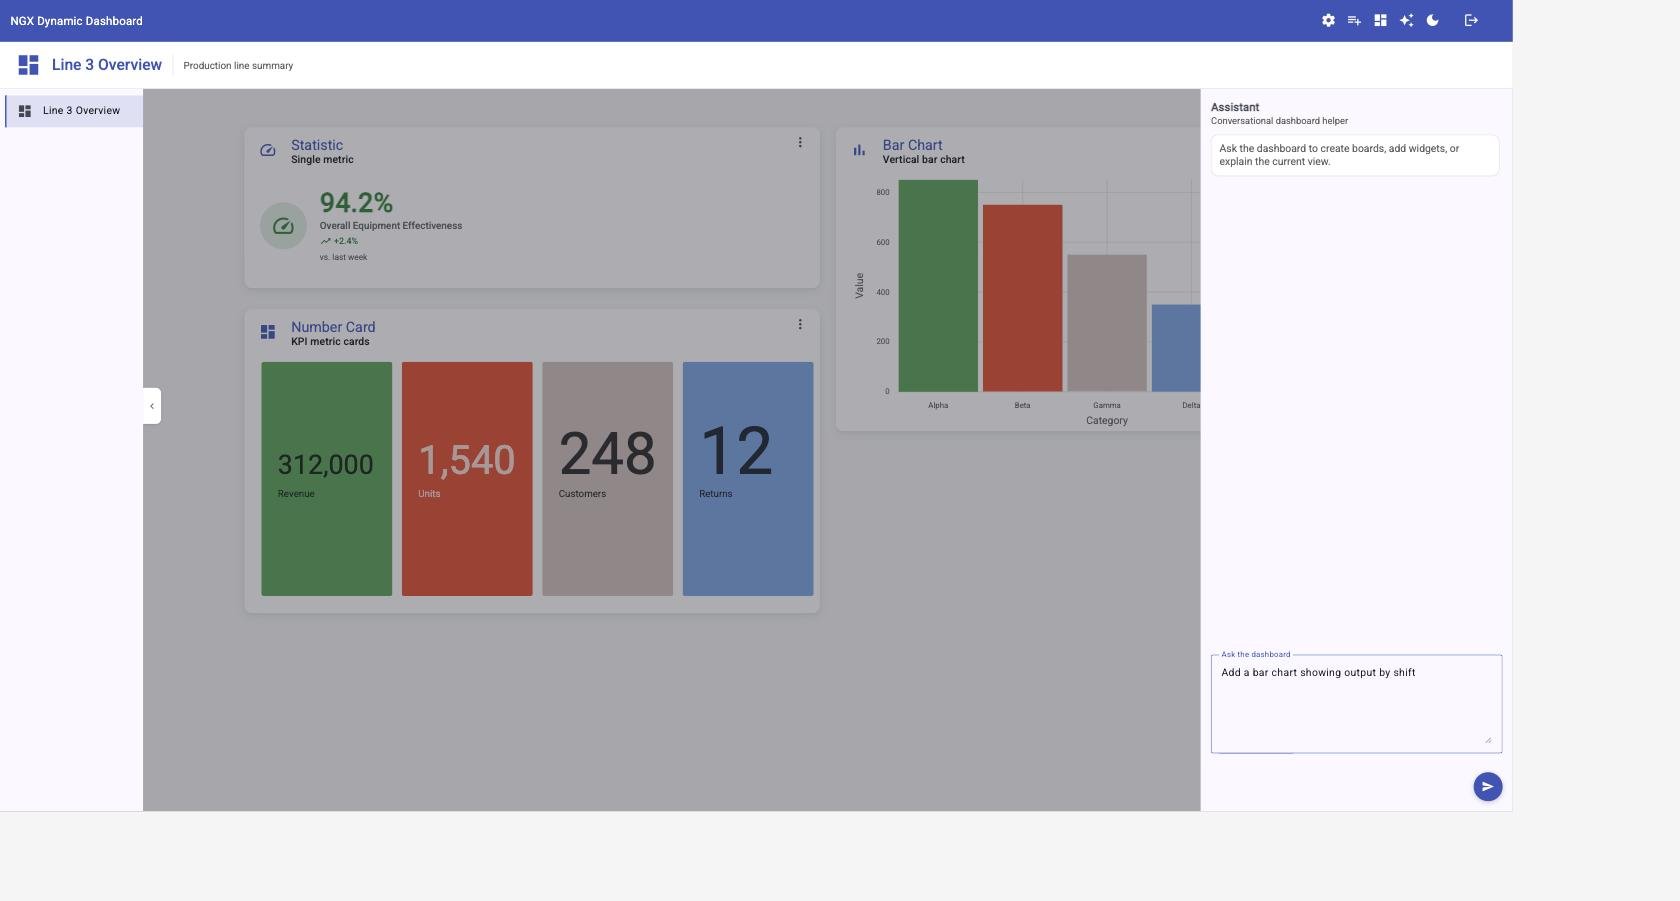
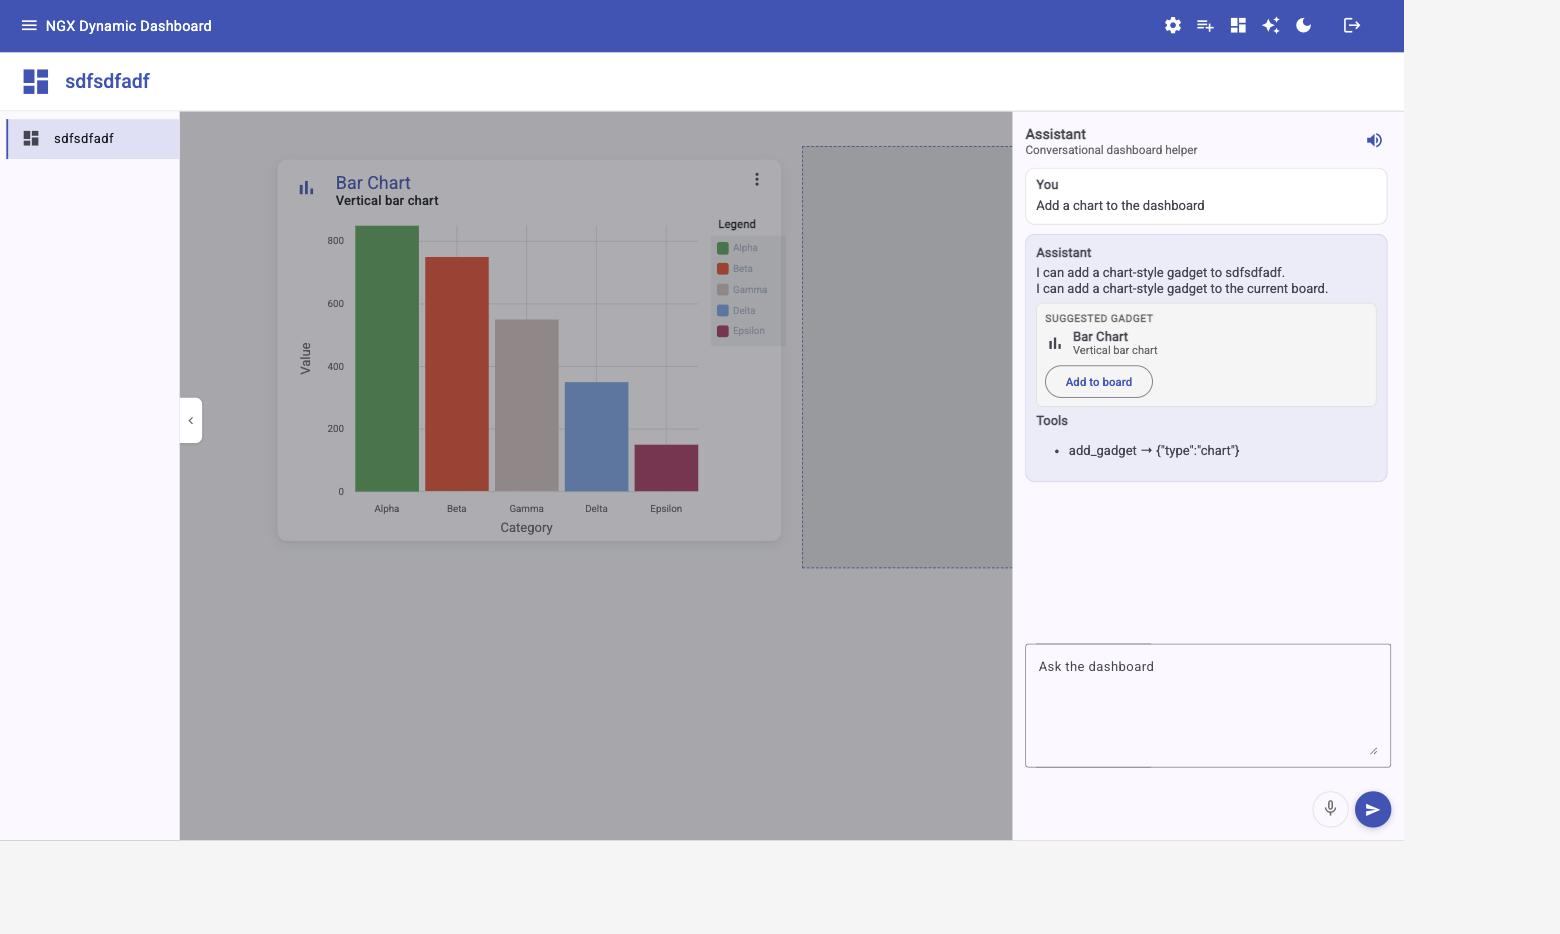
Update README assistant panel screenshot and description
Reflect the recent chat panel work: streaming-style reveal, actionable
gadget-suggestion/board-list cards, and voice input/output via the Web
Speech API.

Changed region(s): [[0.0, 0.0, 0.9231, 0.9012], [0.4615, 0.2175, 0.4923, 0.3729]]

diff --git a/README.md b/README.md
@@ -124,7 +124,9 @@ Application-wide settings, independent of any single board:
 
 ### Agentic Assistant (early support)
 
-The dashboard now includes an early conversational assistant experience exposed from the toolbar. It opens as a side panel and supports a chat-style flow for requests such as creating boards, adding widgets, or explaining the current view.
+The dashboard now includes an early conversational assistant experience exposed from the toolbar. It opens as a side panel and supports a chat-style flow for requests such as creating boards, adding widgets, or explaining the current view. A typing indicator shows while a request is in flight, and the reply is revealed word-by-word rather than popping in all at once.
+
+Suggestions render as real, actionable cards rather than raw data: an "Add to board" button on a suggested gadget adds it through the same path as the gadget library, and a board list offers a "Switch" button per board. The panel also supports voice, via the browser's built-in Web Speech API — a mic button transcribes spoken requests into the composer, and replies can optionally be read aloud, toggled from the header.
 
 The initial implementation is intentionally lightweight and designed to grow into a richer agent workflow. Assistant responses can carry text, structured tool-calls, and richer UI payloads such as A2UI/AGUI-style component content or iframe-based MCP app previews, so the panel can eventually host interactive app experiences directly inside the conversation.
 
